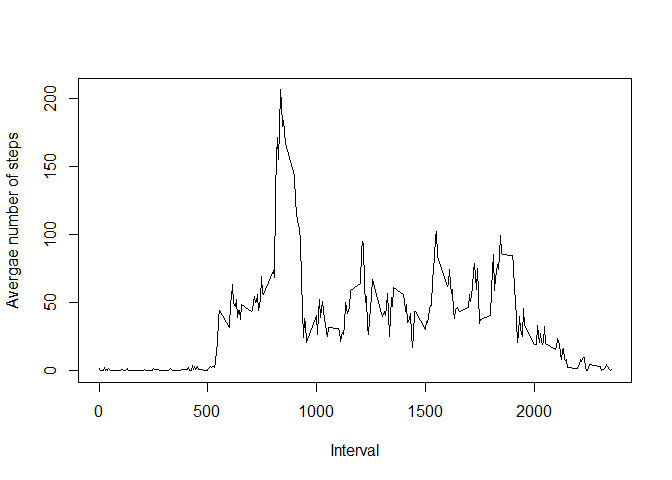
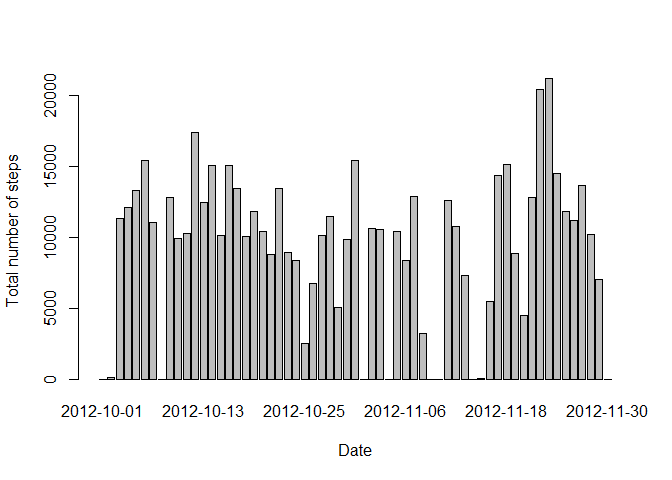
Made minor changes

diff --git a/PA1_template.html b/PA1_template.html
@@ -177,16 +177,8 @@ totalmissingvalues &lt;- sum(is.na(data$steps))</code></pre>
 <pre class="r"><code># Strategy to set NA values. Value will be set to mean of the corresponding 
 #5 minute interval. We'll be using dplyr package functions
 
-library(dplyr)</code></pre>
-<pre><code>## 
-## Attaching package: 'dplyr'</code></pre>
-<pre><code>## The following objects are masked from 'package:stats':
-## 
-##     filter, lag</code></pre>
-<pre><code>## The following objects are masked from 'package:base':
-## 
-##     intersect, setdiff, setequal, union</code></pre>
-<pre class="r"><code>intervalmeans &lt;- data %&gt;% group_by(interval) %&gt;% summarise(mean(steps, 
+library(dplyr)
+intervalmeans &lt;- data %&gt;% group_by(interval) %&gt;% summarise(mean(steps, 
                                                                 na.rm = TRUE))
 names(intervalmeans) &lt;- c(&quot;interval&quot;, &quot;meanval&quot;)
 

diff --git a/PA1_template.md b/PA1_template.md
@@ -5,9 +5,9 @@ output:
   html_document:
     keep_md: true
 ---
-
-
 ## Loading and preprocessing the data
+
+
 
 
 ```r
@@ -36,7 +36,7 @@ stepsperday <- tapply(data$steps, data$date, sum, na.rm = TRUE)
 barplot(stepsperday, xlab = "Date", ylab = "Total number of steps")
 ```
 
-![](PA1_template_files/figure-html/unnamed-chunk-2-1.png)<!-- -->
+![](PA1_template_files/figure-html/unnamed-chunk-3-1.png)<!-- -->
 
 ```r
 meanstepsperday <- mean(stepsperday, na.rm = TRUE) 
@@ -55,7 +55,7 @@ plot(names(avgstepsinterval), avgstepsinterval, xlab = "Interval", ylab = "
      Avergae number of steps", type = "l")
 ```
 
-![](PA1_template_files/figure-html/unnamed-chunk-3-1.png)<!-- -->
+![](PA1_template_files/figure-html/unnamed-chunk-4-1.png)<!-- -->
 
 ```r
 #finding the index in tht output which has the max value and finding the
@@ -85,26 +85,6 @@ totalmissingvalues <- sum(is.na(data$steps))
 #5 minute interval. We'll be using dplyr package functions
 
 library(dplyr)
-```
-
-```
-## 
-## Attaching package: 'dplyr'
-```
-
-```
-## The following objects are masked from 'package:stats':
-## 
-##     filter, lag
-```
-
-```
-## The following objects are masked from 'package:base':
-## 
-##     intersect, setdiff, setequal, union
-```
-
-```r
 intervalmeans <- data %>% group_by(interval) %>% summarise(mean(steps, 
                                                                 na.rm = TRUE))
 names(intervalmeans) <- c("interval", "meanval")
@@ -125,7 +105,7 @@ totalsteps <- tapply(data1$steps, data1$date, sum)
 barplot(totalsteps, xlab = "Date", ylab = "Total number of steps")
 ```
 
-![](PA1_template_files/figure-html/unnamed-chunk-5-1.png)<!-- -->
+![](PA1_template_files/figure-html/unnamed-chunk-6-1.png)<!-- -->
 
 ```r
 #computing new mean and median from the on total steps computed on new data set
@@ -163,6 +143,6 @@ xyplot(meansteps ~ interval | typeofday, data = meanstepsinttypeday, type = "l"
        , xlab = "Interval", ylab = "Average number of steps", layout = c(1,2))
 ```
 
-![](PA1_template_files/figure-html/unnamed-chunk-6-1.png)<!-- -->
+![](PA1_template_files/figure-html/unnamed-chunk-7-1.png)<!-- -->
 
 ####As we can see from the plot there is difference in activity between weekdays and weekends. 
